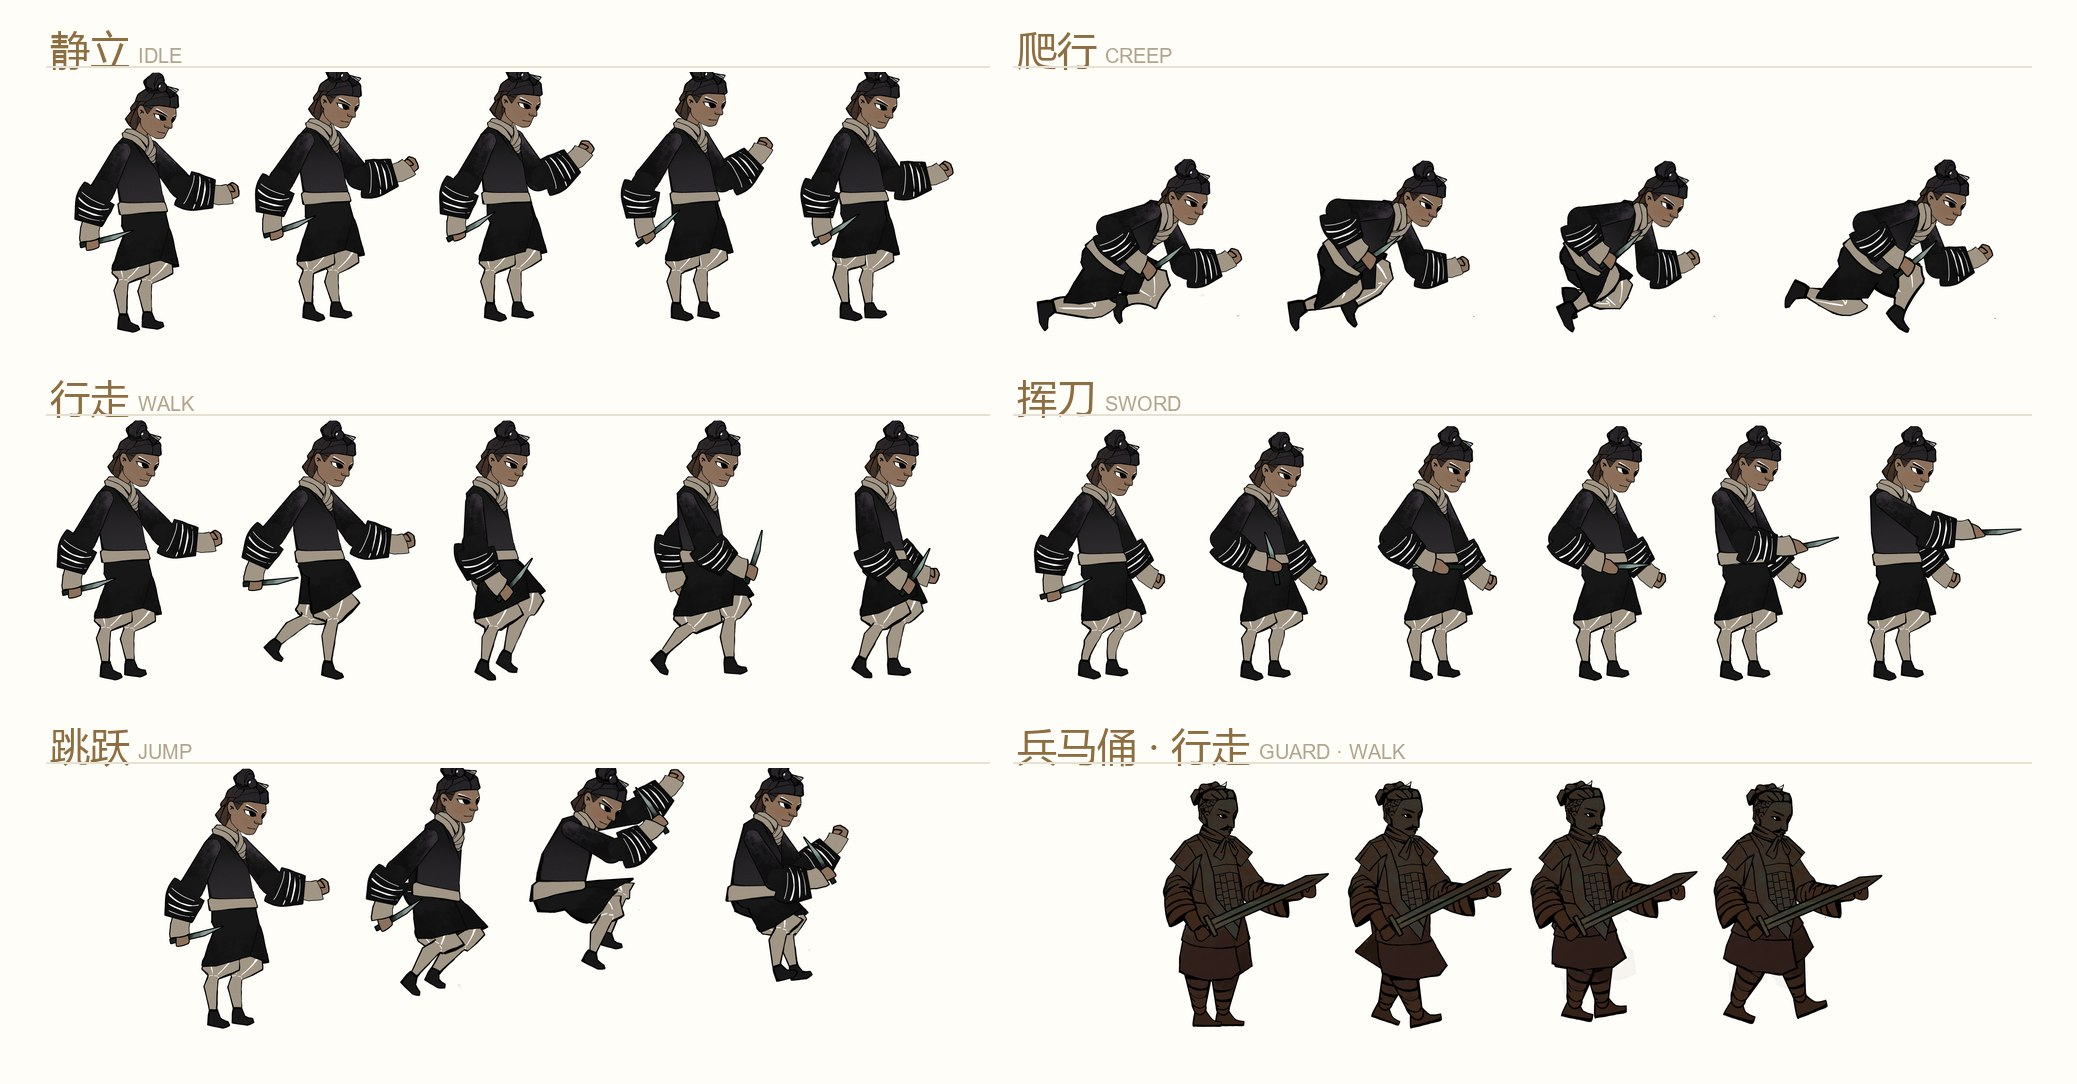
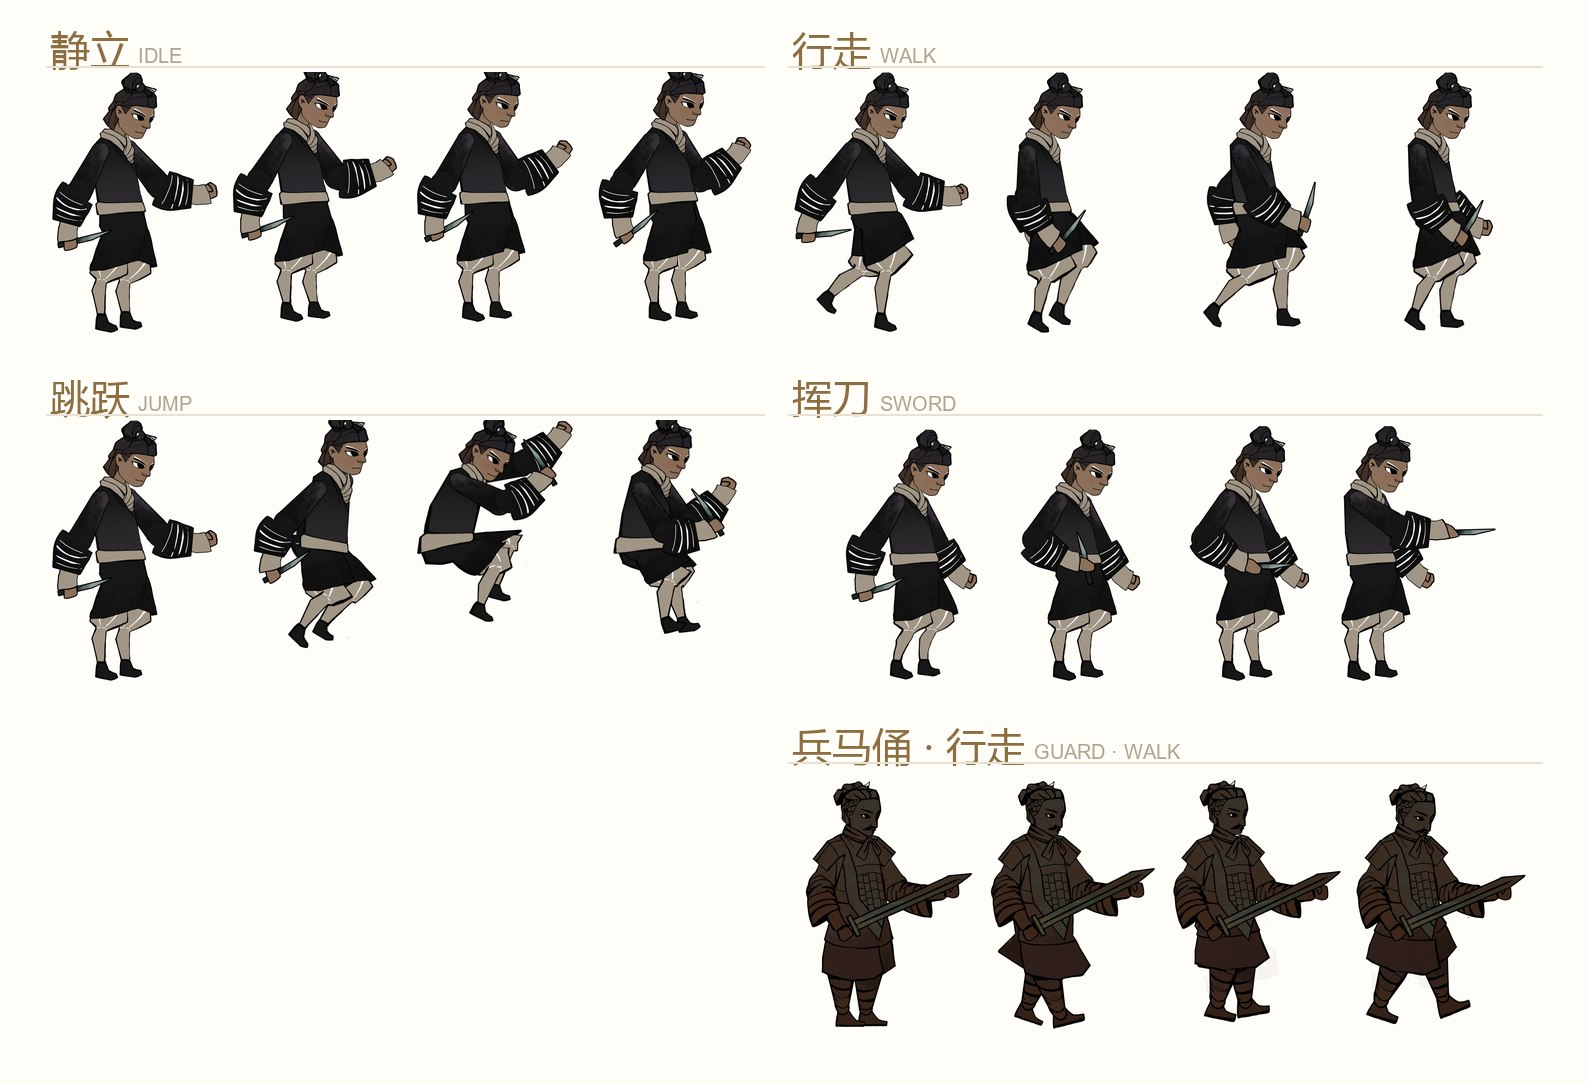
帝陵 01 节收窄：动作帧表只留 5 个动作 × 4 帧；皮影部件图改用 psb 真部件重拼
- 动作帧表：按用户「不用全放，4 帧即可」——爬行（横帧最宽，是撑胖全表的元凶）与受伤不进表，
  改在图注用一行字列举；其余每个动作取 4 帧（挥刀取 1/4/7/10）。表宽 2077 → 1588，
  网页上角色 170 → 218px。列改成「左：静立·跳跃 / 右：行走·挥刀·兵马俑行走」
- piying-parts.jpg：老图是「皮影风格预览\c3066e….png」——一张带 Photoshop 工具栏的截图。
  改为直接读 主角.psb 的 14 个部件层（前 3 层是整幅背景层，跳过）：左＝全部部件叠回原位的合体，
  右＝按 头 / 身 / 臂·手 / 腿·足·道具 四行平铺，两栏同一比例（合体高定 1000px）
  —— 层名是「图层 N」没法当标签，所以按 (层名, 偏移) 定位，偏移唯一且稳定
- 注意 flatten()：psd 层同样是透明底，直接 paste RGBA 会得到黑底方块（第一版就踩了）

diff --git a/diling.html b/diling.html
@@ -90,15 +90,15 @@
         <p class="note">皮影不是贴上去的风格皮，而是角色的制作结构。</p>
       </div>
       <figure>
-        <img src="assets/diling/piying-parts.jpg?v=20260921" alt="皮影风格角色部件拆分">
-        <figcaption>主角部件拆分 · 头 / 臂 / 腿 / 身与道具</figcaption>
+        <img src="assets/diling/piying-parts.jpg?v=20260922" alt="主角部件拆分：左为合体，右为头 / 身 / 臂 · 手 / 腿 · 足 / 道具分片">
+        <figcaption>主角部件拆分 · 左为合体，右为分片（同一比例）</figcaption>
       </figure>
     </div>
 
     <div class="gallery gallery-wide" style="margin-top:34px" data-reveal>
       <figure class="g-item">
-        <img src="assets/diling/actions.jpg?v=20260922" alt="动作帧表：主角 静立 / 行走 / 跳跃 / 爬行 / 挥刀，兵马俑 行走" loading="lazy">
-        <figcaption class="g-cap">动作帧表 · 主角（静立 / 行走 / 跳跃 / 爬行 / 挥刀）与兵马俑（行走）—— 皮影部件驱动出的逐帧动画；全表同一比例、按脚底基线对齐</figcaption>
+        <img src="assets/diling/actions.jpg?v=20260922b" alt="动作帧表：主角 静立 / 行走 / 跳跃 / 挥刀，兵马俑 行走" loading="lazy">
+        <figcaption class="g-cap">动作帧表 · 主角（静立 / 行走 / 跳跃 / 挥刀）与兵马俑（行走）—— 皮影部件驱动出的逐帧动画；全表同一比例、按脚底基线对齐。另有爬行 4 帧、受伤 2 帧，未全部列出。</figcaption>
       </figure>
     </div>
 
